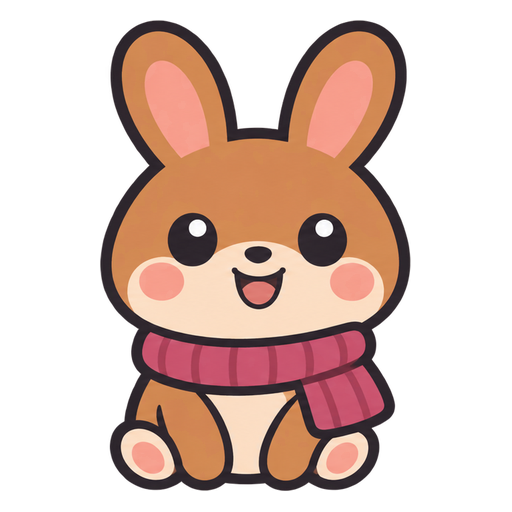
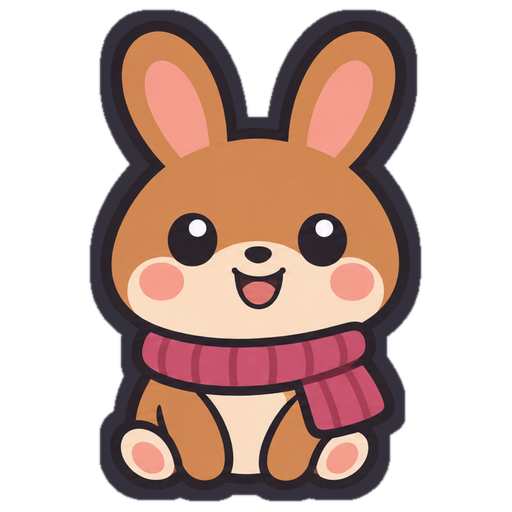
Contorno mais grosso nas figuras do tabuleiro
- tools/outline.py junta uma faixa azul-marinho de 10 px à volta dos
  animais, comidas, rocha e toca: ficam nítidos a 60 px, ao lado dos
  números e botões grossos.

Claude-Session: https://claude.ai/code/session_019qmALCv4ef3vy6rfbU3Dgw

Changed region(s): [[0.1562, 0.0, 0.8438, 1.0]]

diff --git a/tools/outline.py b/tools/outline.py
@@ -1,0 +1,37 @@
+"""Engrossa o contorno escuro das figuras, para se lerem bem pequenas no tabuleiro.
+
+Junta à volta da figura uma faixa azul-marinho (#34303C) com `px` píxeis.
+Corre depois de tools/prep_images.py (as imagens já têm 512×512 com margem).
+
+Uso:
+    python tools/outline.py                   # figuras do tabuleiro, 10 px
+    python tools/outline.py 8 ourico coelho   # só estas, 8 px
+"""
+import os
+import sys
+
+from PIL import Image, ImageFilter
+
+IMG = os.path.join(os.path.dirname(__file__), "..", "assets", "images")
+NAVY = (52, 48, 60, 255)
+DEFAULT = ["ourico", "coelho", "raposa", "comida_ourico", "comida_coelho", "comida_raposa", "rocha", "toca"]
+
+
+def thicken(path, px):
+    im = Image.open(path).convert("RGBA")
+    a = im.getchannel("A").point(lambda v: 255 if v > 40 else 0)
+    grown = a.filter(ImageFilter.MaxFilter(px * 2 + 1)).filter(ImageFilter.GaussianBlur(0.8))
+    out = Image.new("RGBA", im.size, NAVY)
+    out.putalpha(grown)
+    out.alpha_composite(im)
+    out.save(path, optimize=True)
+
+
+if __name__ == "__main__":
+    args = sys.argv[1:]
+    px = int(args.pop(0)) if args and args[0].isdigit() else 10
+    for name in args or DEFAULT:
+        p = os.path.join(IMG, name + ".png")
+        if os.path.exists(p):
+            thicken(p, px)
+            print("ok", name)

diff --git a/docs/imagens.md b/docs/imagens.md
@@ -150,7 +150,7 @@ python tools/split_sheet.py assets/images/comidas.png comida_ourico comida_coelh
 python tools/prep_images.py
 ```
 
-As folhas originais ficam em `assets/images/fontes/` (o Godot ignora essa pasta).
+As folhas originais ficam em `assets/images/fontes/` (o Godot ignora essa pasta). Por fim, `python tools/outline.py` engrossa o contorno escuro das figuras do tabuleiro (10 px), para se lerem bem pequenas.
 
 **`animais.png`** (formato largo, 3:1)
 > A sprite sheet of three cute chibi animal characters for a cozy winter mobile puzzle game, side by side in a single row, evenly spaced with clear empty space between them, all the same size and drawn in exactly the same style. Each sits facing the viewer. Left: a hedgehog with warm dark-brown spikes, a cream face and a teal (#2E8C7E) knitted scarf. Middle: a rabbit with warm caramel-brown fur, a cream belly, long upright ears with pink inside and a raspberry-pink (#C2477A) knitted scarf. Right: a fox with bright orange fur, white cheeks and chest, a fluffy white-tipped tail and a cream knitted scarf with orange stripes. Big round heads (about 60% of the character's height), small simple bodies, large shiny eyes, rosy cheeks, small happy smile. Thick dark navy outline (#34303C) of the same thickness on all three, flat colors with one soft shade, almost no fur texture, no thin lines, readable at 64 pixels. Transparent background, no text, no ground, no shadow.
